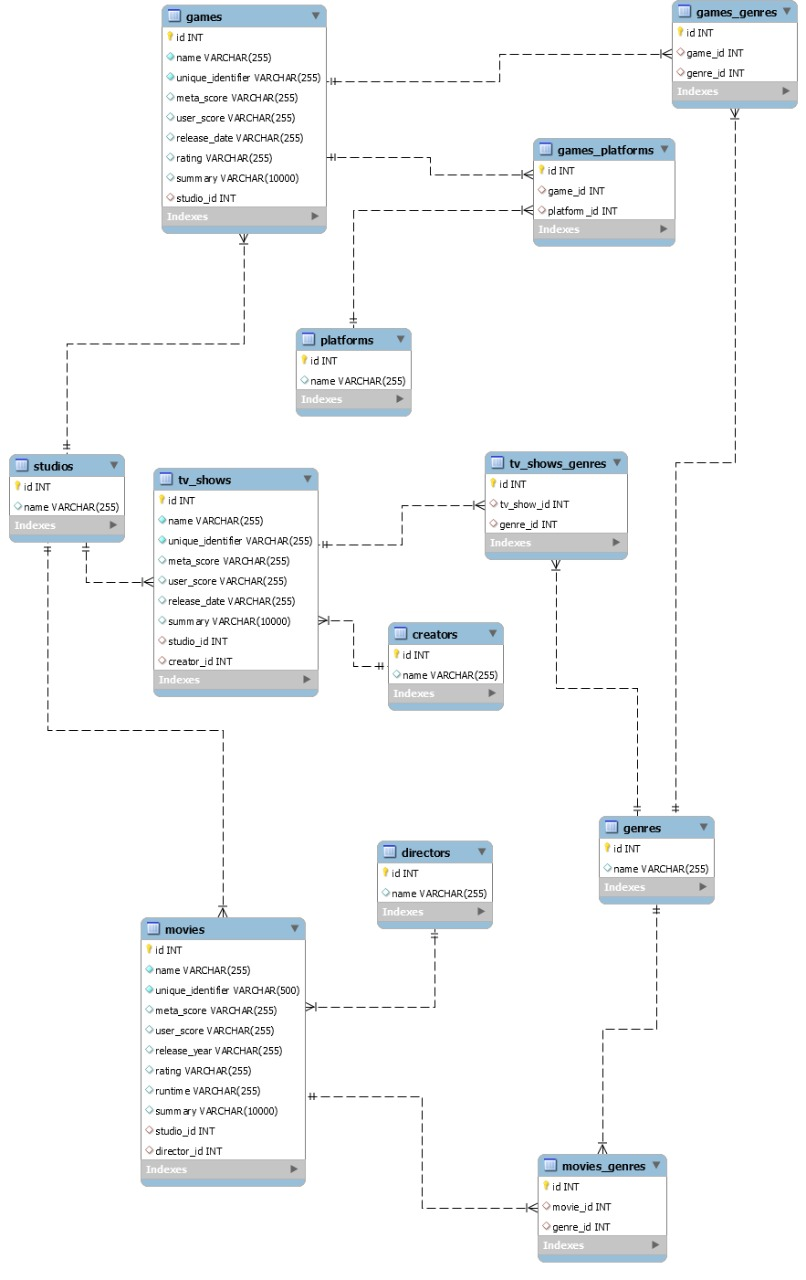
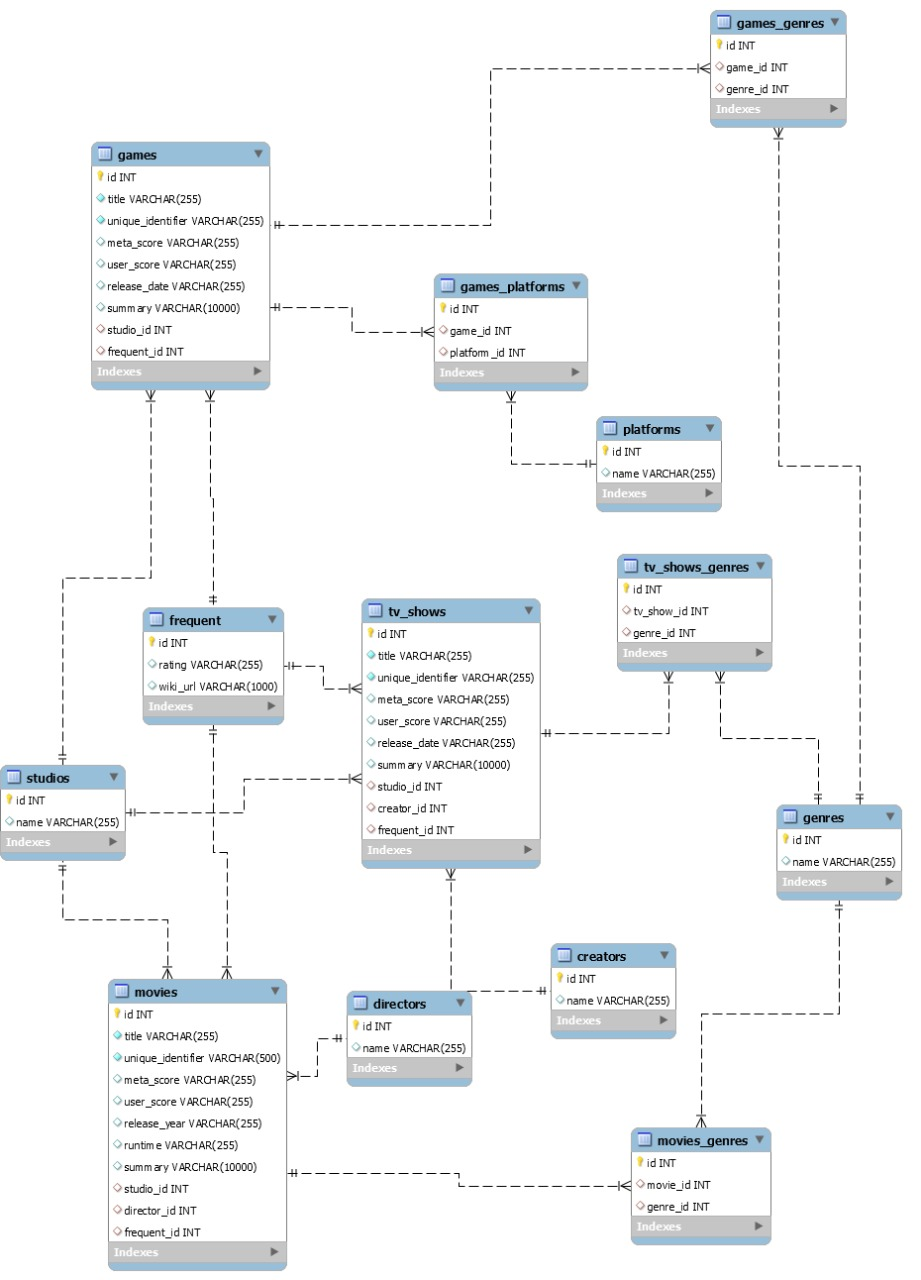
added new image, and corrected some warnings

diff --git a/CLI.py b/CLI.py
@@ -1,8 +1,8 @@
 import argparse
-import URL_scraper as sc
+import URL_scraper as Scraper
 import config as cfg
 import sys
-import DB as db
+import DB as DB
 
 parser = argparse.ArgumentParser(description='Welcome to Metacritic scraper. Please enter 3 parameters: '
                                              '1. Which type of data to scrape, '
@@ -27,10 +27,10 @@ def movie(how_to_scrape, val_to_scrape):
               f"year_selected={val_to_scrape}&sort=desc&view=detailed"
     elif how_to_scrape == 'genre':
         url = f'https://www.metacritic.com/browse/movies/genre/metascore/{val_to_scrape}?view=detailed'
-    the_scraper = sc.Scraper(url)
+    the_scraper = Scraper.Scraper(url)
     the_scraper.parallel_movie_scraper()
     the_scraper.replace_nan_with_null()
-    data = db.Database()
+    data = DB.Database()
     data.add_to_database_by_type(container=the_scraper.get_container(), container_type=the_scraper.get_type())
 
 
@@ -44,10 +44,10 @@ def tv_show(how_to_scrape, val_to_scrape):
               f'year_selected={val_to_scrape}&sort=desc&view=detailed'
     elif how_to_scrape == 'genre':
         url = f'https://www.metacritic.com/browse/tv/genre/metascore/{val_to_scrape}?view=detailed'
-    the_scraper = sc.Scraper(url)
+    the_scraper = Scraper.Scraper(url)
     the_scraper.parallel_tv_show_scraper()
     the_scraper.replace_nan_with_null()
-    data = db.Database()
+    data = DB.Database()
     data.add_to_database_by_type(container=the_scraper.get_container(), container_type=the_scraper.get_type())
 
 
@@ -61,10 +61,10 @@ def game(how_to_scrape, val_to_scrape):
               f'year_selected={val_to_scrape}&distribution=&sort=desc&view=detailed'
     elif how_to_scrape == 'genre':
         url = f'https://www.metacritic.com/browse/games/genre/metascore/{val_to_scrape}/all?view=detailed'
-    the_scraper = sc.Scraper(url)
+    the_scraper = Scraper.Scraper(url)
     the_scraper.parallel_game_scraper()
     the_scraper.replace_nan_with_null()
-    data = db.Database()
+    data = DB.Database()
     data.add_to_database_by_type(container=the_scraper.get_container(), container_type=the_scraper.get_type())
 
 

diff --git a/URL_scraper.py b/URL_scraper.py
@@ -32,7 +32,7 @@ class Scraper:
     def __init__(self, anchor_url):
         # Container of all the data from scraping.
         self.container = pd.DataFrame()
-        # Type of craper (Movie, Tv show, Games).
+        # Type of scraper (Movie, Tv show, Games).
         self.type = re.findall(r'/browse/(.+?)/', anchor_url)[0]
         self.get_type()
         self.create_container()
@@ -50,8 +50,6 @@ class Scraper:
         # self.parallel_page_scraper()
         # Replaces nan's with nulls in preparation for database insertion.
         self.replace_nan_with_null()
-
-
 
     def get_type(self):
         """
@@ -85,7 +83,7 @@ class Scraper:
     def create_container(self):
         """
         Create a Pandas Dataframe according to the columns for each type of scraper (Movies, Tv Shows, Games)
-        :return: pd DataDrame
+        :return: pd DataFrame
         """
         if self.type == 'movies':
             self.container = pd.DataFrame(columns=['Title', 'Metascore', 'User score', 'Release Year', 'Studio',
@@ -373,10 +371,9 @@ class Scraper:
                 name = row_df['Title'].replace(' ', '_')
             page_py = wiki_wiki.page(name)
             if page_py.exists():
-                self.container.loc[index, 'wiki_url'] = page_py.canonicalurl
+                self.container.loc[index, 'wiki_url'] = page_py.fullurl
             else:
                 self.container.loc[index, 'wiki_url'] = f'No URL Found'
-            print(name)
 
 
 def main():
